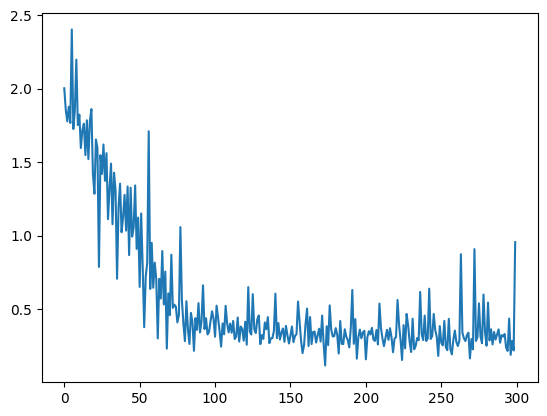
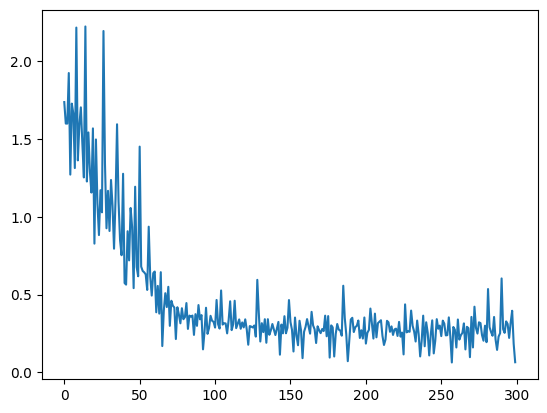
Re-experiment with modified code not mentioned in the article

diff --git a/articles/dwd-qiskit17.md b/articles/dwd-qiskit17.md
@@ -392,11 +392,9 @@ print(f'final loss={loss_list[-1]}')
 print(f'{opt_params=}')
 ```
 
-ナイーブな実装では 33min 31s かかったが、今回の実装で、凡そ 2 分まで短縮された。早い時は 1min 27s 程度で完了した。
+ナイーブな実装では 33min 31s かかったが、今回の実装で、凡そ 2 分まで短縮された。早い時は 1min 27s 程度で完了した。Google Colab 上で実行すると 2 分を切りやすいように感じた。
 
 ![](/images/dwd-qiskit17/002.png)
-
-時々コストが一気に跳ね上がるのは何故だろう？ここは調査しきれていない。
 
 # テスト精度
 
@@ -404,7 +402,7 @@ print(f'{opt_params=}')
 testloader = DataLoader(testset, 32)
 
 qc_pl = make_placeholder_circuit(n_qubits)
-pname2locs, expr, oprands = find_ry_locs(qc_pl, hamiltonian, return_tn=True)
+pname2locs, expr, operands = find_ry_locs(qc_pl, hamiltonian, return_tn=True)
 pname2theta = {f"θ[{i}]": params[i] for i in range(len(params))}
 
 total = 0
@@ -435,9 +433,9 @@ for i, (batch, label) in enumerate(testloader):
 print(f'test acc={np.round(total_correct/total, 2)}')
 ```
 
-> test acc=0.83
+> test acc=0.9
 
-こちらもよく分からないが、テスト精度が前回の CPU のケースに比べると低い。何故だろう。この辺も追々調査していきたい。なお、ナイーブな実装では時間こそかかったが、コストが跳ねたりせず、CPU 版と同程度の精度だったので、この辺の差異も気にはなっている。
+データセットが小さいこともあり、実行ごとに多少最適化後のパラメータに差が出るのか、test acc は 0.83, 0.87, 0.9 あたりが出やすかった。1 回だけ 0.96 というのも見たが、再現できていない。ガチャみたいな感じである。
 
 # まとめ
 
